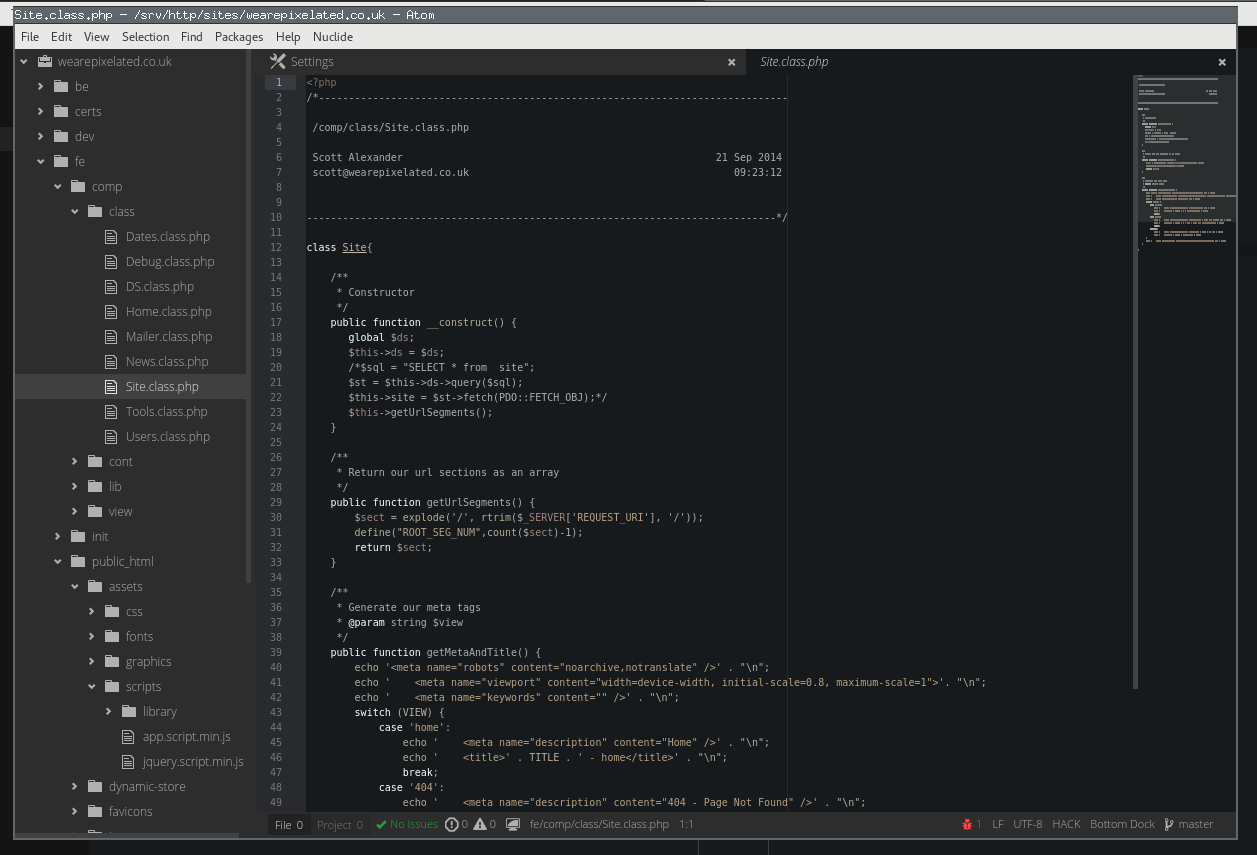
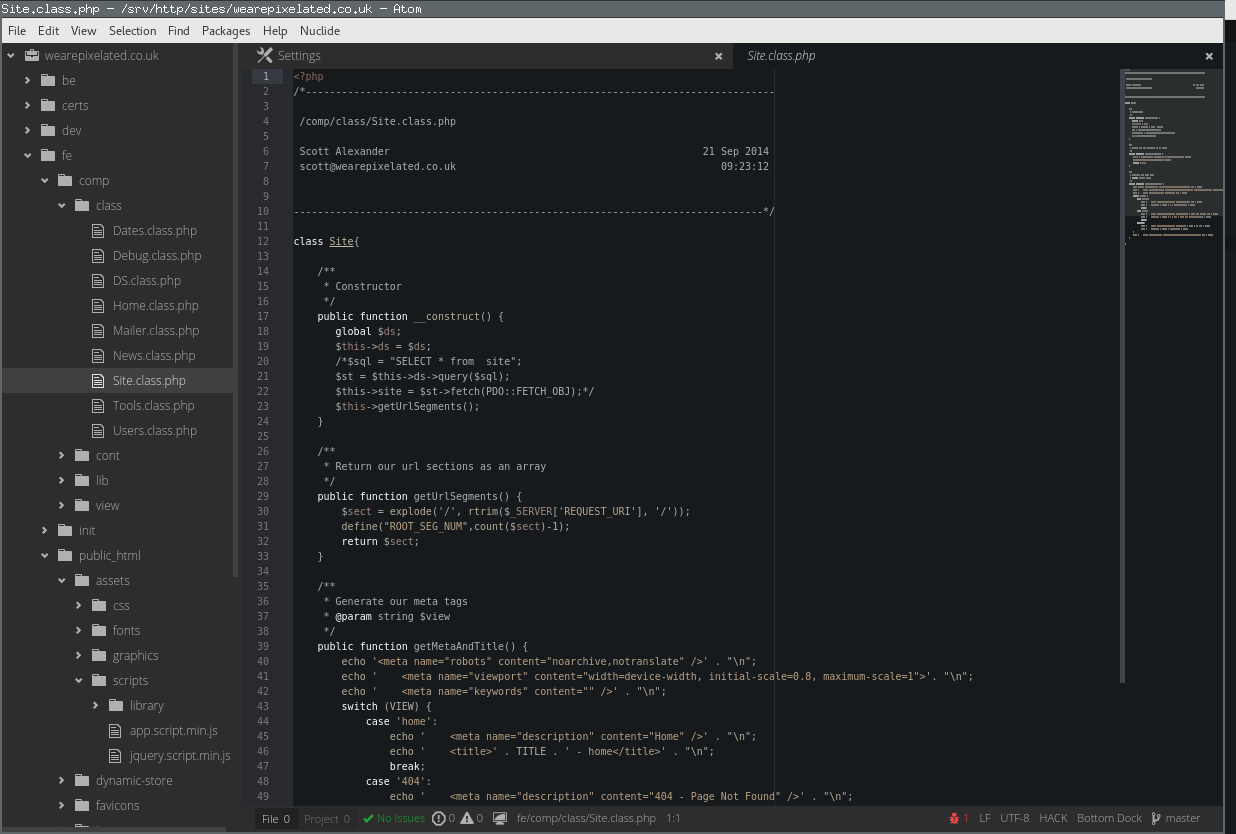
New screenshot path

diff --git a/README.md b/README.md
@@ -2,5 +2,5 @@
 
 We Are Pixelated's syntax theme.
 
-![A screenshot of your theme](https://github.com/wearepixelated/WeArePixelated-syntax/blob/master/wearepixelated-syntax.png)
+![A screenshot of your theme](https://github.com/wearepixelated/WeArePixelated-syntax/blob/master/screens/wearepixelated-syntax.png)
 # WeArePixelated-syntax
